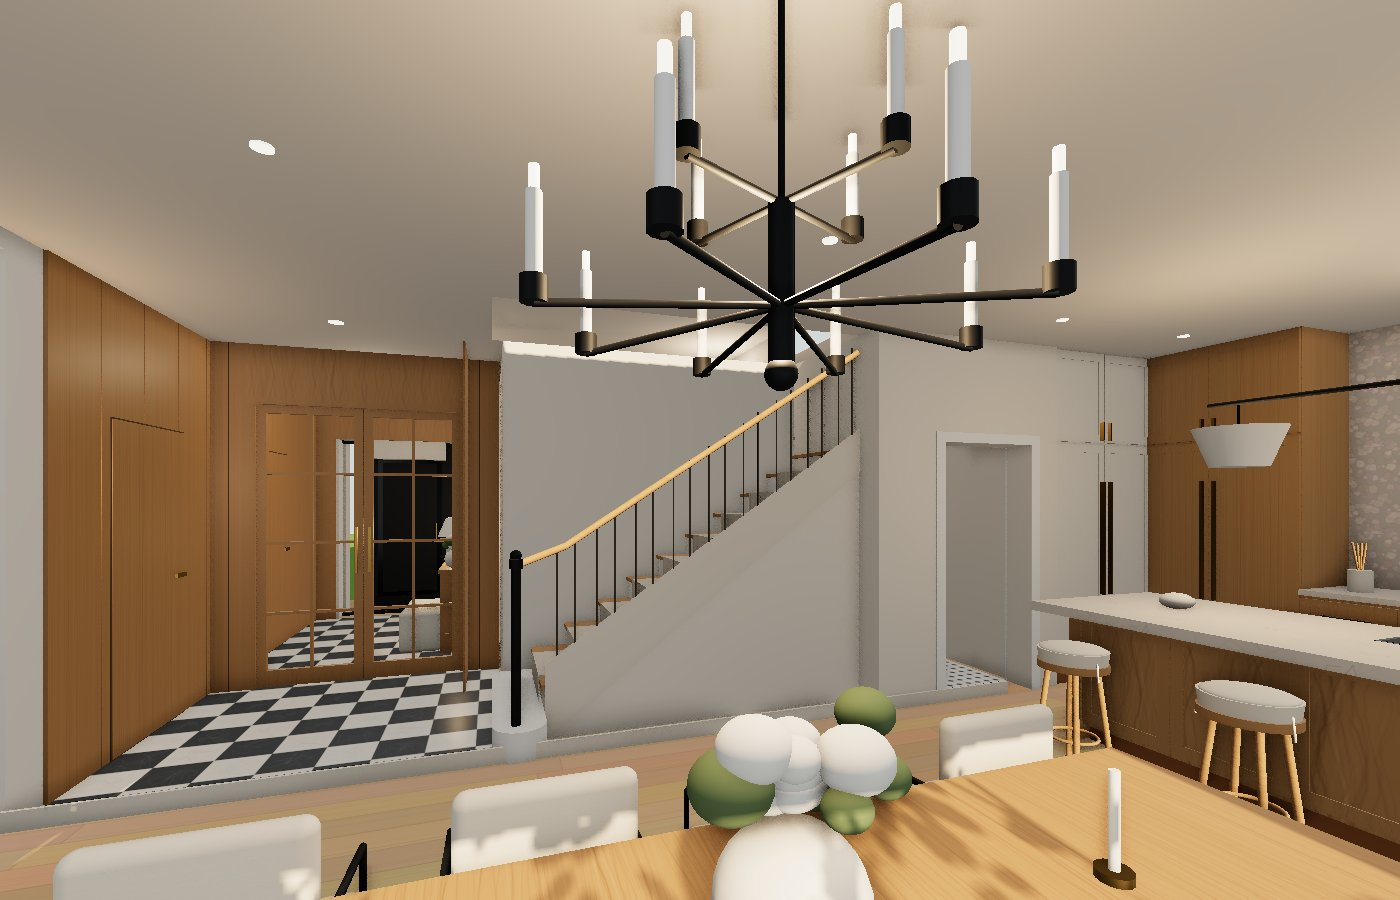
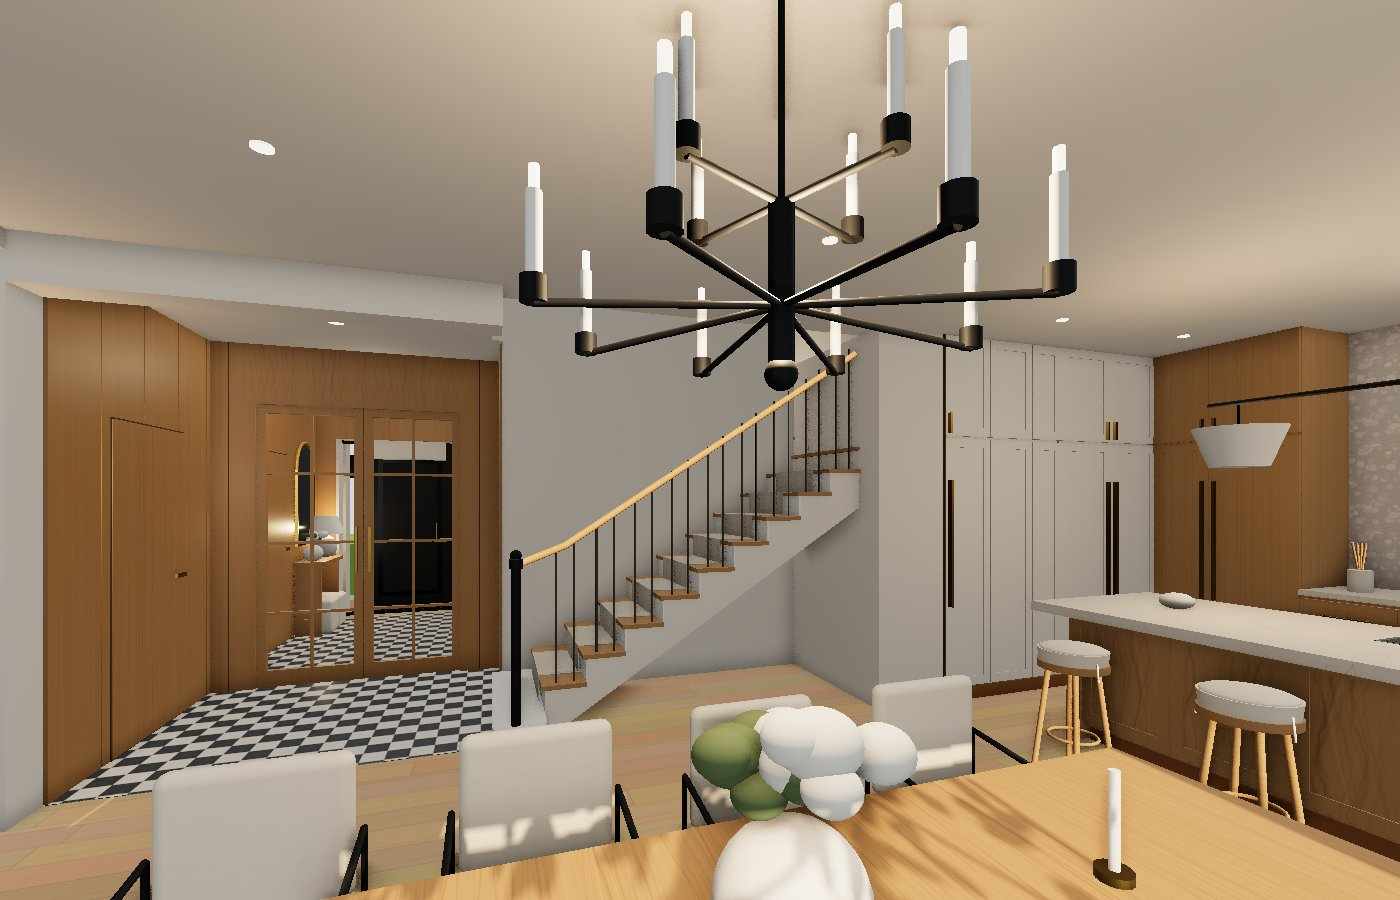
Parter: podciągi wg DWG (przejście jadalnia–hol 25×40, garderoba 2×25×35), niższy sufit siłowni
Claude-Session: https://claude.ai/code/session_01STLbtYii5p8wK44WZJV9Pu

diff --git a/koncepcje/dom-3d/scene.js b/koncepcje/dom-3d/scene.js
@@ -1334,6 +1334,11 @@ function zoneShell() {
   B(60, 102, -45, BEAM1, HN - 1, 340, mat.wall);
   B(76, 600, -45, BEAM0, HR, HR + 25, mat.wall).name = 'CEIL'; B(COL, 580, -45, 0, 0, HR + 20, mat.wall); B(COL, 580, BEAM0, 528, 0, HR + 20, mat.wall);
   B(-25, 0, BEAM0, BEAM1, 0, 290, mat.wall);
+  // podciągi wg DWG: nad przejściem jadalnia–hol 25×40 (spód ok. 265 cm wg przekroju), w garderobie 2× 25×35 (spód ok. 273 cm)
+  B(-25, 0, BEAM1, 646, 265, HN, mat.wall).name = 'BEAM';
+  B(-640, -339, 1072, 1097, 273, HN, mat.wall).name = 'BEAM'; B(-640, -339, 1137, 1162, 273, HN, mat.wall).name = 'BEAM';
+  // siłownia w parterowym skrzydle: niższy sufit ok. 256 cm (przekrój DWG, podciąg 25×51)
+  B(-339, 306, 1303, 1723, 256, HN, mat.wall).name = 'CEIL';
   // okna wg oferty Yawal: jadalnia poz. 4 HS 2700×2400, kuchnia poz. 5 HS 2400×2400 (osadzone w osi otworów z DWG)
   const D0 = 687.5 - 135, D1 = 687.5 + 135, K0 = 1085.5 - 120, K1 = 1085.5 + 120;
   B(COL, 580, 520, D0, 0, 330, mat.wall); B(COL, 580, D1, K0, 0, 330, mat.wall); B(COL, 580, K1, 1215, 0, 330, mat.wall);

diff --git a/koncepcje/parter-strefa-dzienna/index.html b/koncepcje/parter-strefa-dzienna/index.html
@@ -1379,6 +1379,11 @@ function zoneShell() {
   B(60, 102, -45, BEAM1, HN - 1, 340, mat.wall);
   B(76, 600, -45, BEAM0, HR, HR + 25, mat.wall).name = 'CEIL'; B(COL, 580, -45, 0, 0, HR + 20, mat.wall); B(COL, 580, BEAM0, 528, 0, HR + 20, mat.wall);
   B(-25, 0, BEAM0, BEAM1, 0, 290, mat.wall);
+  // podciągi wg DWG: nad przejściem jadalnia–hol 25×40 (spód ok. 265 cm wg przekroju), w garderobie 2× 25×35 (spód ok. 273 cm)
+  B(-25, 0, BEAM1, 646, 265, HN, mat.wall).name = 'BEAM';
+  B(-640, -339, 1072, 1097, 273, HN, mat.wall).name = 'BEAM'; B(-640, -339, 1137, 1162, 273, HN, mat.wall).name = 'BEAM';
+  // siłownia w parterowym skrzydle: niższy sufit ok. 256 cm (przekrój DWG, podciąg 25×51)
+  B(-339, 306, 1303, 1723, 256, HN, mat.wall).name = 'CEIL';
   // okna wg oferty Yawal: jadalnia poz. 4 HS 2700×2400, kuchnia poz. 5 HS 2400×2400 (osadzone w osi otworów z DWG)
   const D0 = 687.5 - 135, D1 = 687.5 + 135, K0 = 1085.5 - 120, K1 = 1085.5 + 120;
   B(COL, 580, 520, D0, 0, 330, mat.wall); B(COL, 580, D1, K0, 0, 330, mat.wall); B(COL, 580, K1, 1215, 0, 330, mat.wall);
